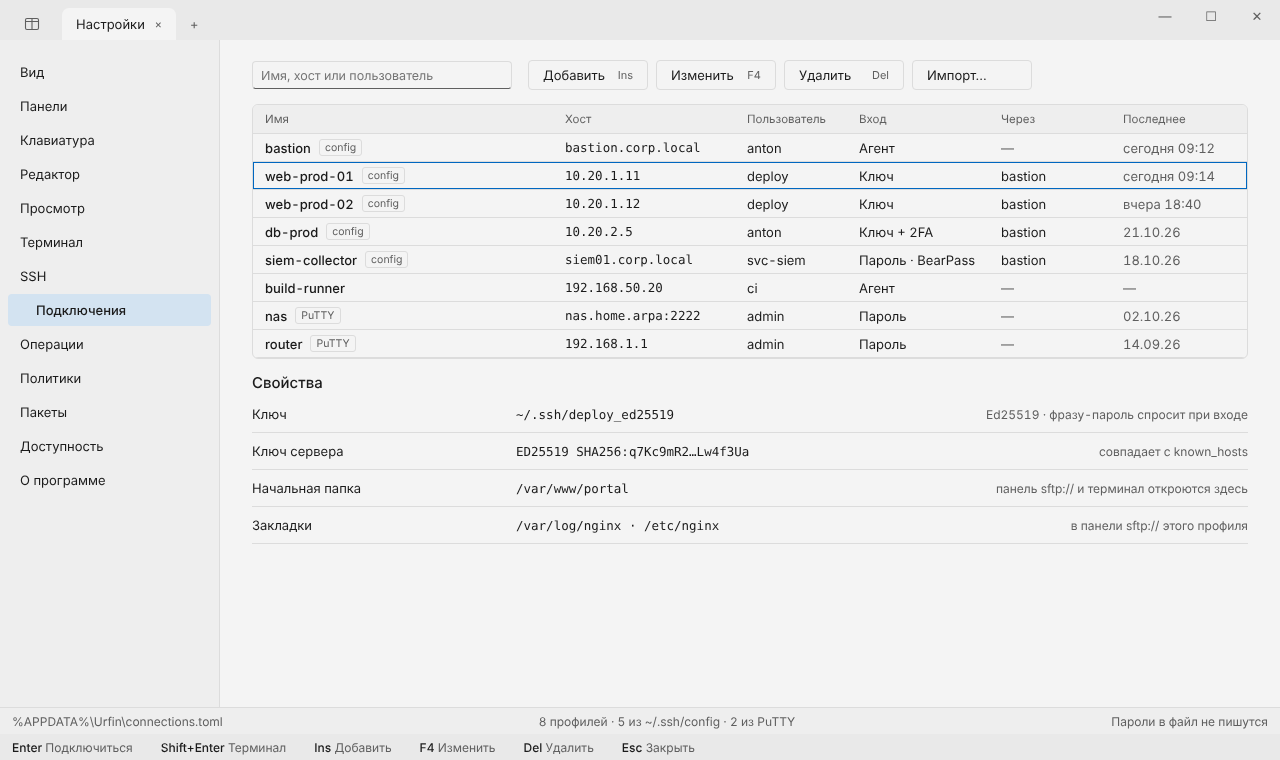
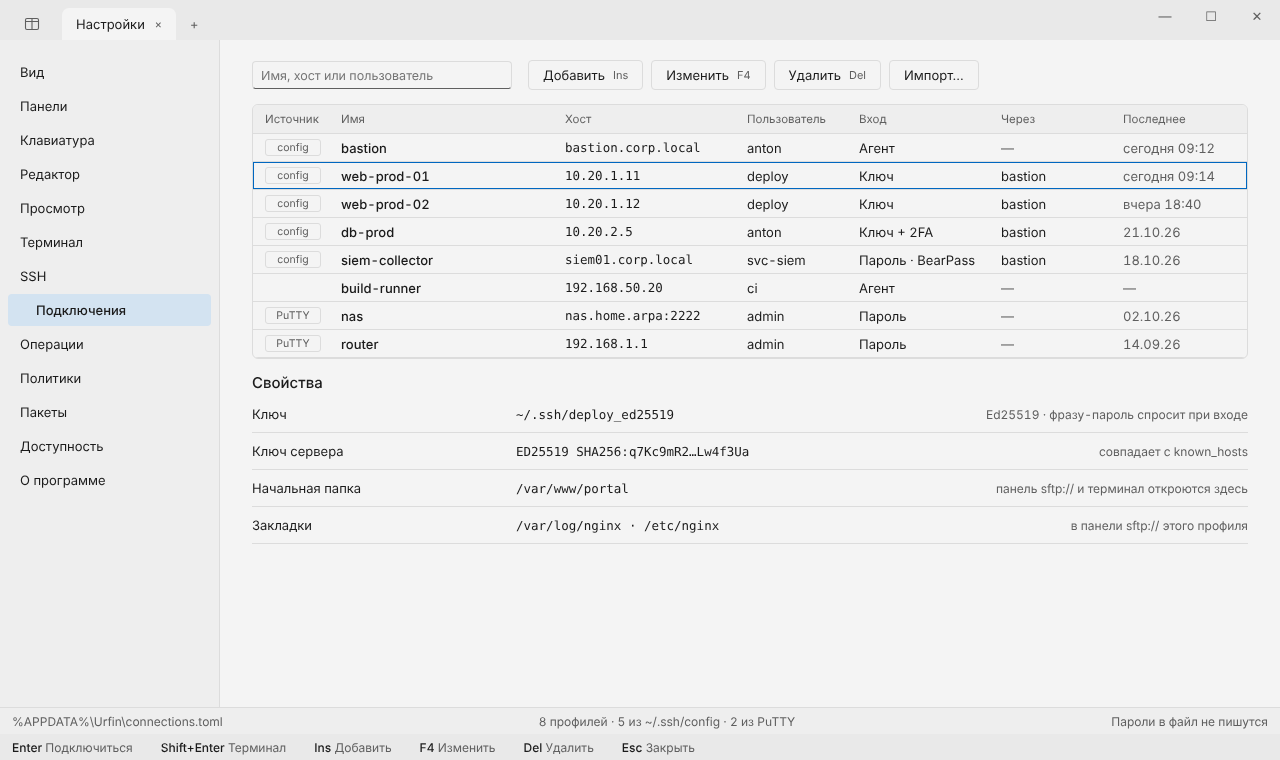
design: connections — source tag column left of the name, equal width; toolbar buttons back
Claude-Session: https://claude.ai/code/session_013ZpcYnbJMYkHW4aMDDmFTq

diff --git a/docs/design/window.dc.html b/docs/design/window.dc.html
@@ -865,16 +865,17 @@ body{margin:0}
 <div style="flex: 1; min-width: 0; padding: 20px 32px; display: flex; flex-direction: column; gap: 14px; overflow: hidden">
 <div style="display: flex; align-items: center; gap: 8px">
 <input aria-label="Найти подключение" placeholder="Имя, хост или пользователь" style="width: 260px; {{inputStyle}}">
-<button type="button" style="margin-left: 8px; {{btn}}; width: 120px; display: inline-flex; align-items: center; justify-content: space-between; gap: 8px; text-align: left"><span>Добавить</span><span style="color: {{t.s}}; font-size: 11px">Ins</span></button>
-<button type="button" style="{{btn}}; width: 120px; display: inline-flex; align-items: center; justify-content: space-between; gap: 8px; text-align: left"><span>Изменить</span><span style="color: {{t.s}}; font-size: 11px">F4</span></button>
-<button type="button" style="{{btn}}; width: 120px; display: inline-flex; align-items: center; justify-content: space-between; gap: 8px; text-align: left"><span>Удалить</span><span style="color: {{t.s}}; font-size: 11px">Del</span></button>
-<button type="button" style="{{btn}}; width: 120px; display: inline-flex; align-items: center; justify-content: space-between; gap: 8px; text-align: left"><span>Импорт…</span></button>
+<button type="button" style="margin-left: 8px; {{btn}}">Добавить <span style="color: {{t.s}}; font-size: 11px">Ins</span></button>
+<button type="button" style="{{btn}}">Изменить <span style="color: {{t.s}}; font-size: 11px">F4</span></button>
+<button type="button" style="{{btn}}">Удалить <span style="color: {{t.s}}; font-size: 11px">Del</span></button>
+<button type="button" style="{{btn}}">Импорт…</button>
 </div>
 <div role="table" aria-label="Профили подключений" style="display: flex; flex-direction: column; border: 1px solid {{t.b}}; border-radius: 6px; overflow: hidden">
-<div role="row" style="height: 28px; display: flex; align-items: center; gap: 12px; padding: 0 12px; background: {{t.h}}; border-bottom: 1px solid {{t.b}}; color: {{t.s}}; font-size: 11.5px"><span style="flex: 1">Имя</span><span style="width: 170px; flex: none">Хост</span><span style="width: 100px; flex: none">Пользователь</span><span style="width: 130px; flex: none">Вход</span><span style="width: 110px; flex: none">Через</span><span style="width: 112px; flex: none">Последнее</span></div>
+<div role="row" style="height: 28px; display: flex; align-items: center; gap: 12px; padding: 0 12px; background: {{t.h}}; border-bottom: 1px solid {{t.b}}; color: {{t.s}}; font-size: 11.5px"><span style="width: 64px; flex: none">Источник</span><span style="flex: 1">Имя</span><span style="width: 170px; flex: none">Хост</span><span style="width: 100px; flex: none">Пользователь</span><span style="width: 130px; flex: none">Вход</span><span style="width: 110px; flex: none">Через</span><span style="width: 112px; flex: none">Последнее</span></div>
 <sc-for list="{{ssConn}}" as="c" hint-placeholder-count="8">
 <div role="row" style="{{c.style}}">
-<span style="flex: 1; min-width: 0; display: flex; align-items: center; gap: 8px"><span style="font-weight: 500">{{c.name}}</span><sc-if value="{{c.src}}" hint-placeholder-val="{{ false }}"><span style="{{ssSrc}}">{{c.src}}</span></sc-if></span>
+<span style="width: 64px; flex: none; display: flex"><sc-if value="{{c.src}}" hint-placeholder-val="{{ false }}"><span style="{{ssSrc}}; width: 56px; box-sizing: border-box; text-align: center">{{c.src}}</span></sc-if></span>
+<span style="flex: 1; min-width: 0; font-weight: 500; overflow: hidden; text-overflow: ellipsis; white-space: nowrap">{{c.name}}</span>
 <span style="width: 170px; flex: none; {{ssMono}}">{{c.host}}</span>
 <span style="width: 100px; flex: none">{{c.user}}</span>
 <span style="width: 130px; flex: none">{{c.auth}}</span>

diff --git a/docs/design/DESIGN.md b/docs/design/DESIGN.md
@@ -125,7 +125,7 @@
 | `screen-sshrecview.png` | Просмотр записи (F3, asciicast v2): как просмотрщик — Запись / Текст / Hex; снизу ▶, время, шкала с метками совпадений, скорость 1×/2×/4×, поиск с историей и «N из M» | F-03 |
 | `screen-termhl.png` | Подсветка вывода в локальном терминале (pwsh): те же правила, что у SSH; вкл./выкл. — Ctrl+Alt+H, статус «Подсветка вывода: вкл.» | F-03 |
 | `screen-settings-ssh.png` | Раздел «SSH»: вход (агент: авто / OpenSSH / Pageant), пароли (кэш — замок GPO, менеджер паролей и команда с подстановками), сеансы (переподключение, keep-alive, запись — замок TOML, папка, мультивыполнение), подсветка вывода и её правила-чипы | F-03 |
-| `screen-settings-conn.png` | Раздел «Подключения»: поиск + ряд кнопок одной ширины (подпись слева, клавиша справа); таблица профилей (имя, источник config/PuTTY, хост, пользователь, вход, через, последнее), свойства выбранного, импорт | F-03 |
+| `screen-settings-conn.png` | Раздел «Подключения»: поиск + кнопки; таблица профилей (источник config/PuTTY — первая колонка, метки одной ширины; имя, хост, пользователь, вход, через, последнее), свойства выбранного, импорт | F-03 |
 | `screen-settings-ops.png` | «Операции» (S5 §6.2): удаление, копирование и перенос (конфликт, папка есть, ошибки, проверка, облако), параллельность по устройствам, надёжность и журналы; параметр, заданный политикой, — замок, контрол недоступен, «Задано политикой организации» | D-08 / S5 |
 | `screen-settings-policies.png` | «Политики» — только чтение: пояснение сверху (policy.toml и GPO, при расхождении — GPO), таблица Параметр / Значение / Источник: заданные — с замком и «GPO · Имя = значение» или «TOML · ключ = значение», незаданные — ключ и «не задано» `secondary`; набор политик — ADR-0020, №66, №86 | D-08 |
 | `screen-operror.png`, `screen-opbusy.png` | Ошибка операции (S5 §2.2): строка-предупреждение (фон `warning_bg`, черта `context_remote`, вспышка) — «Нет доступа: путь» / «Файл используется: имя» + причина и код `secondary` (для занятого файла — процесс-владелец, №69); Повторить (Enter) / Пропустить (S) / Пропустить все такие (A) / Отмена — сразу за текстом; job-бар «ждёт ответа»; повышения прав в операциях нет | D-04 / S5 |
